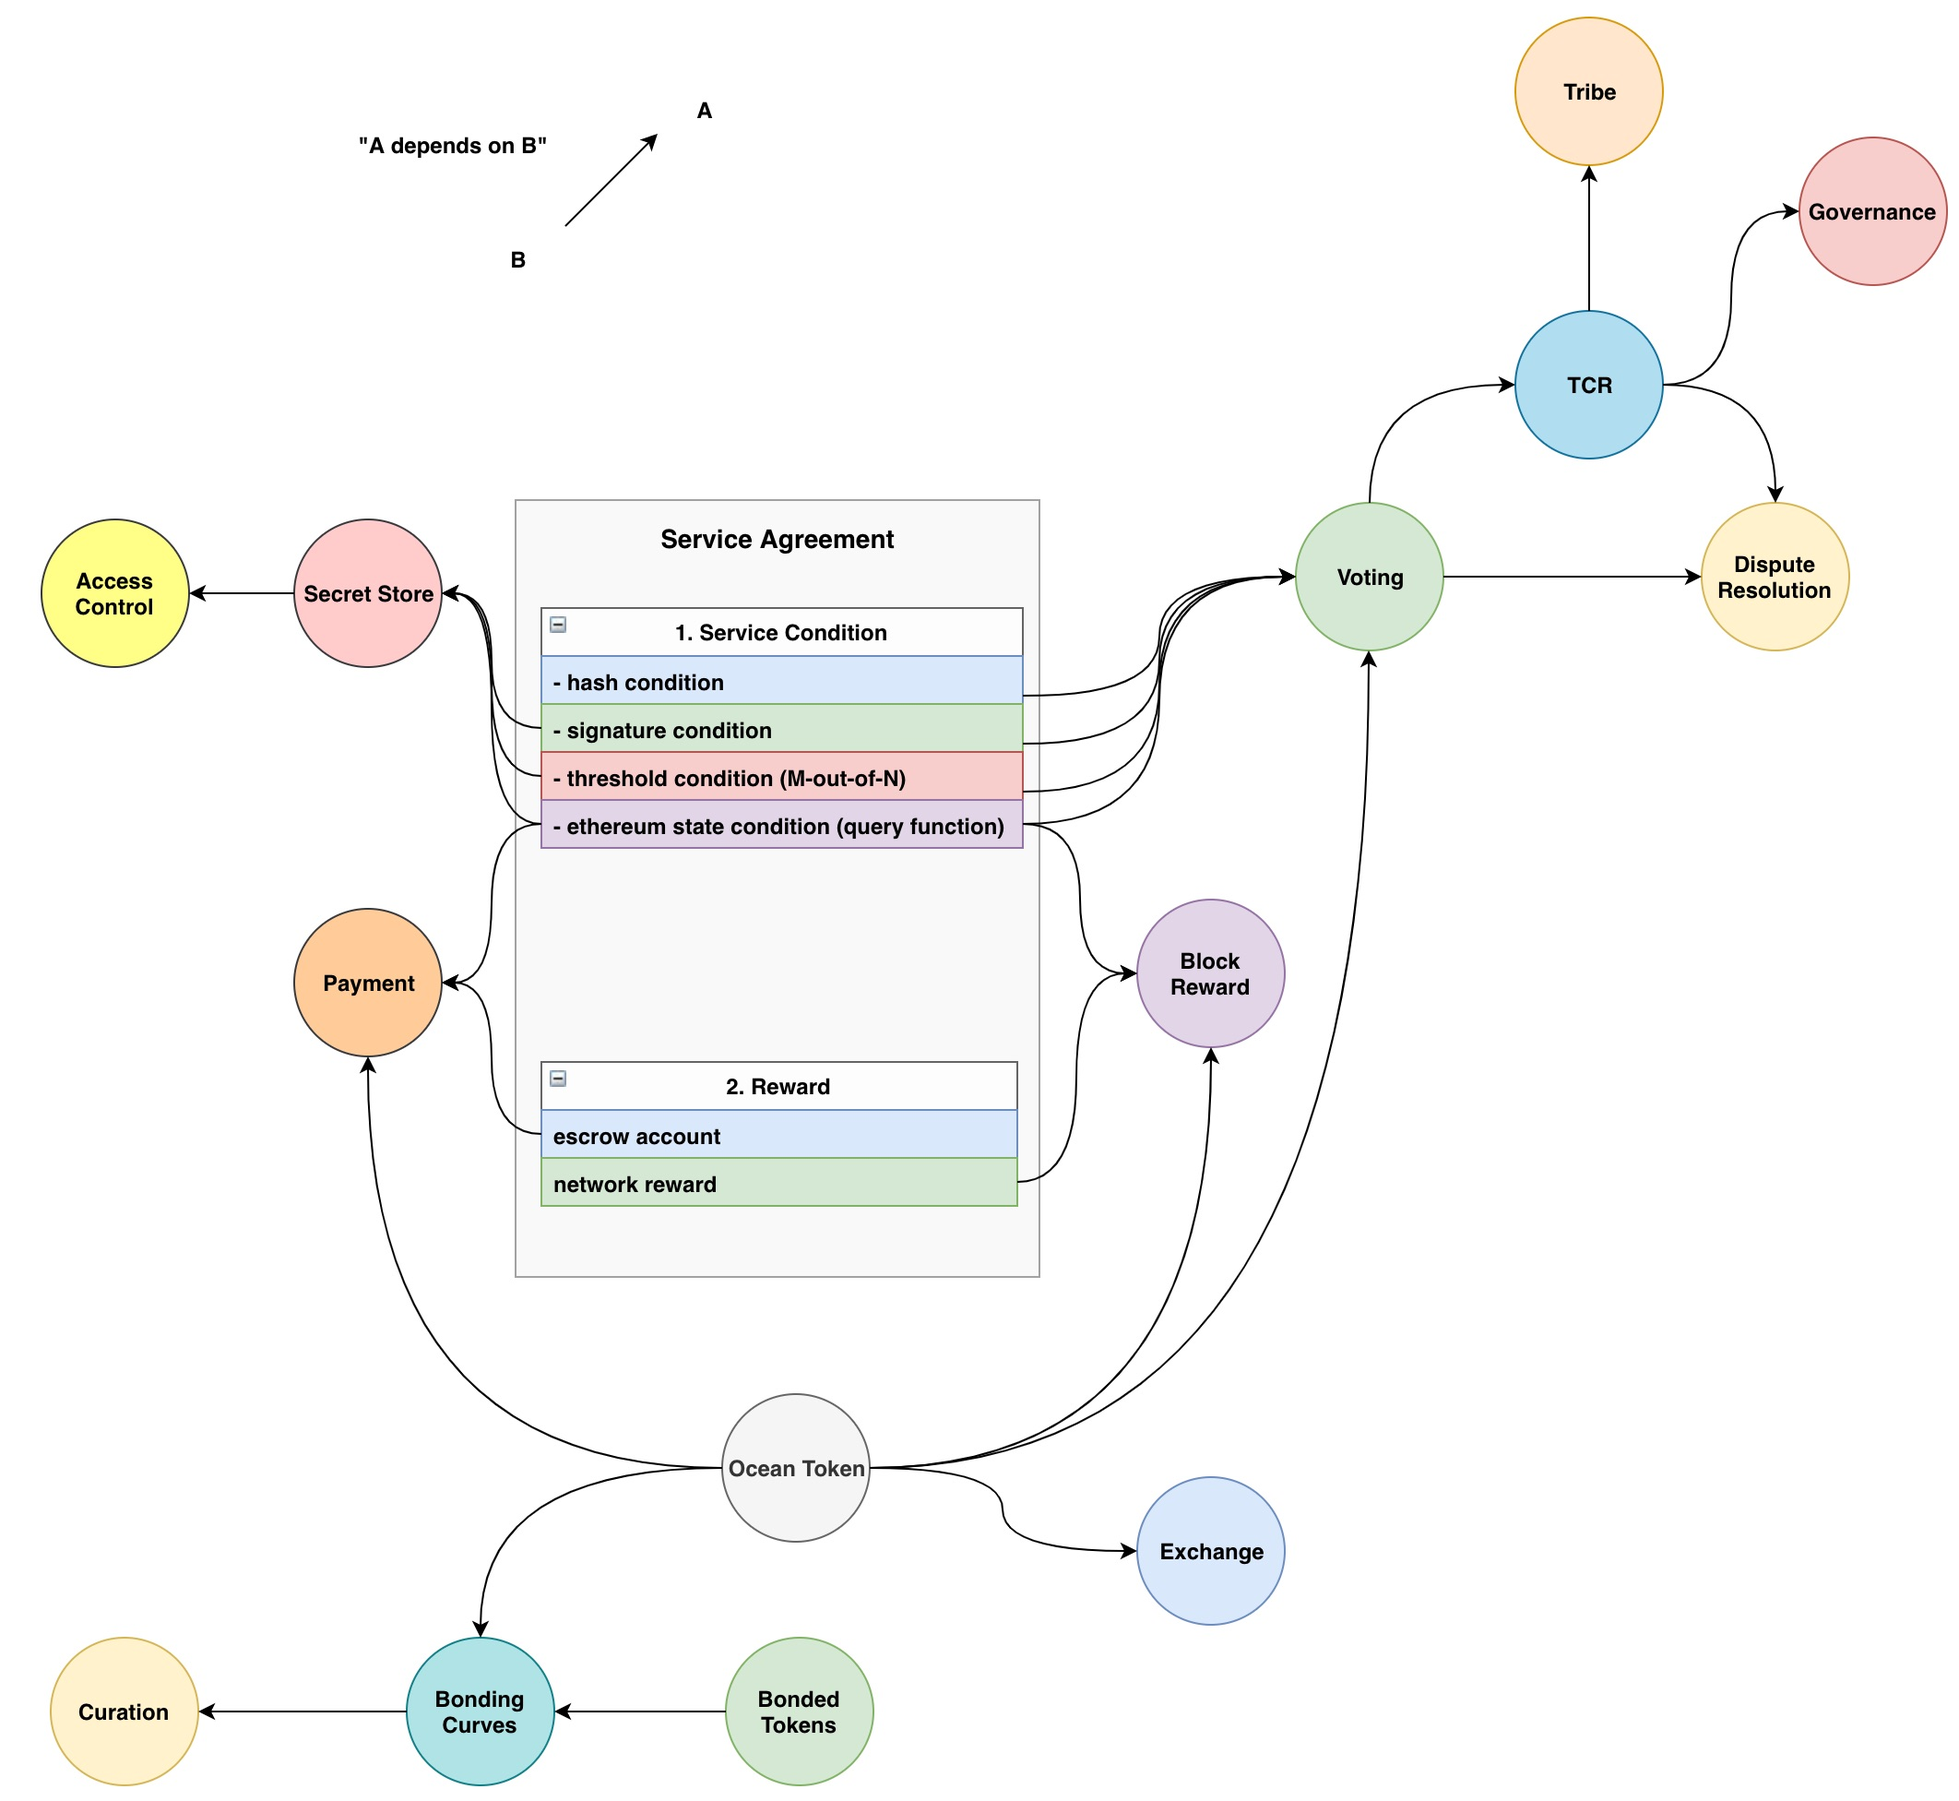
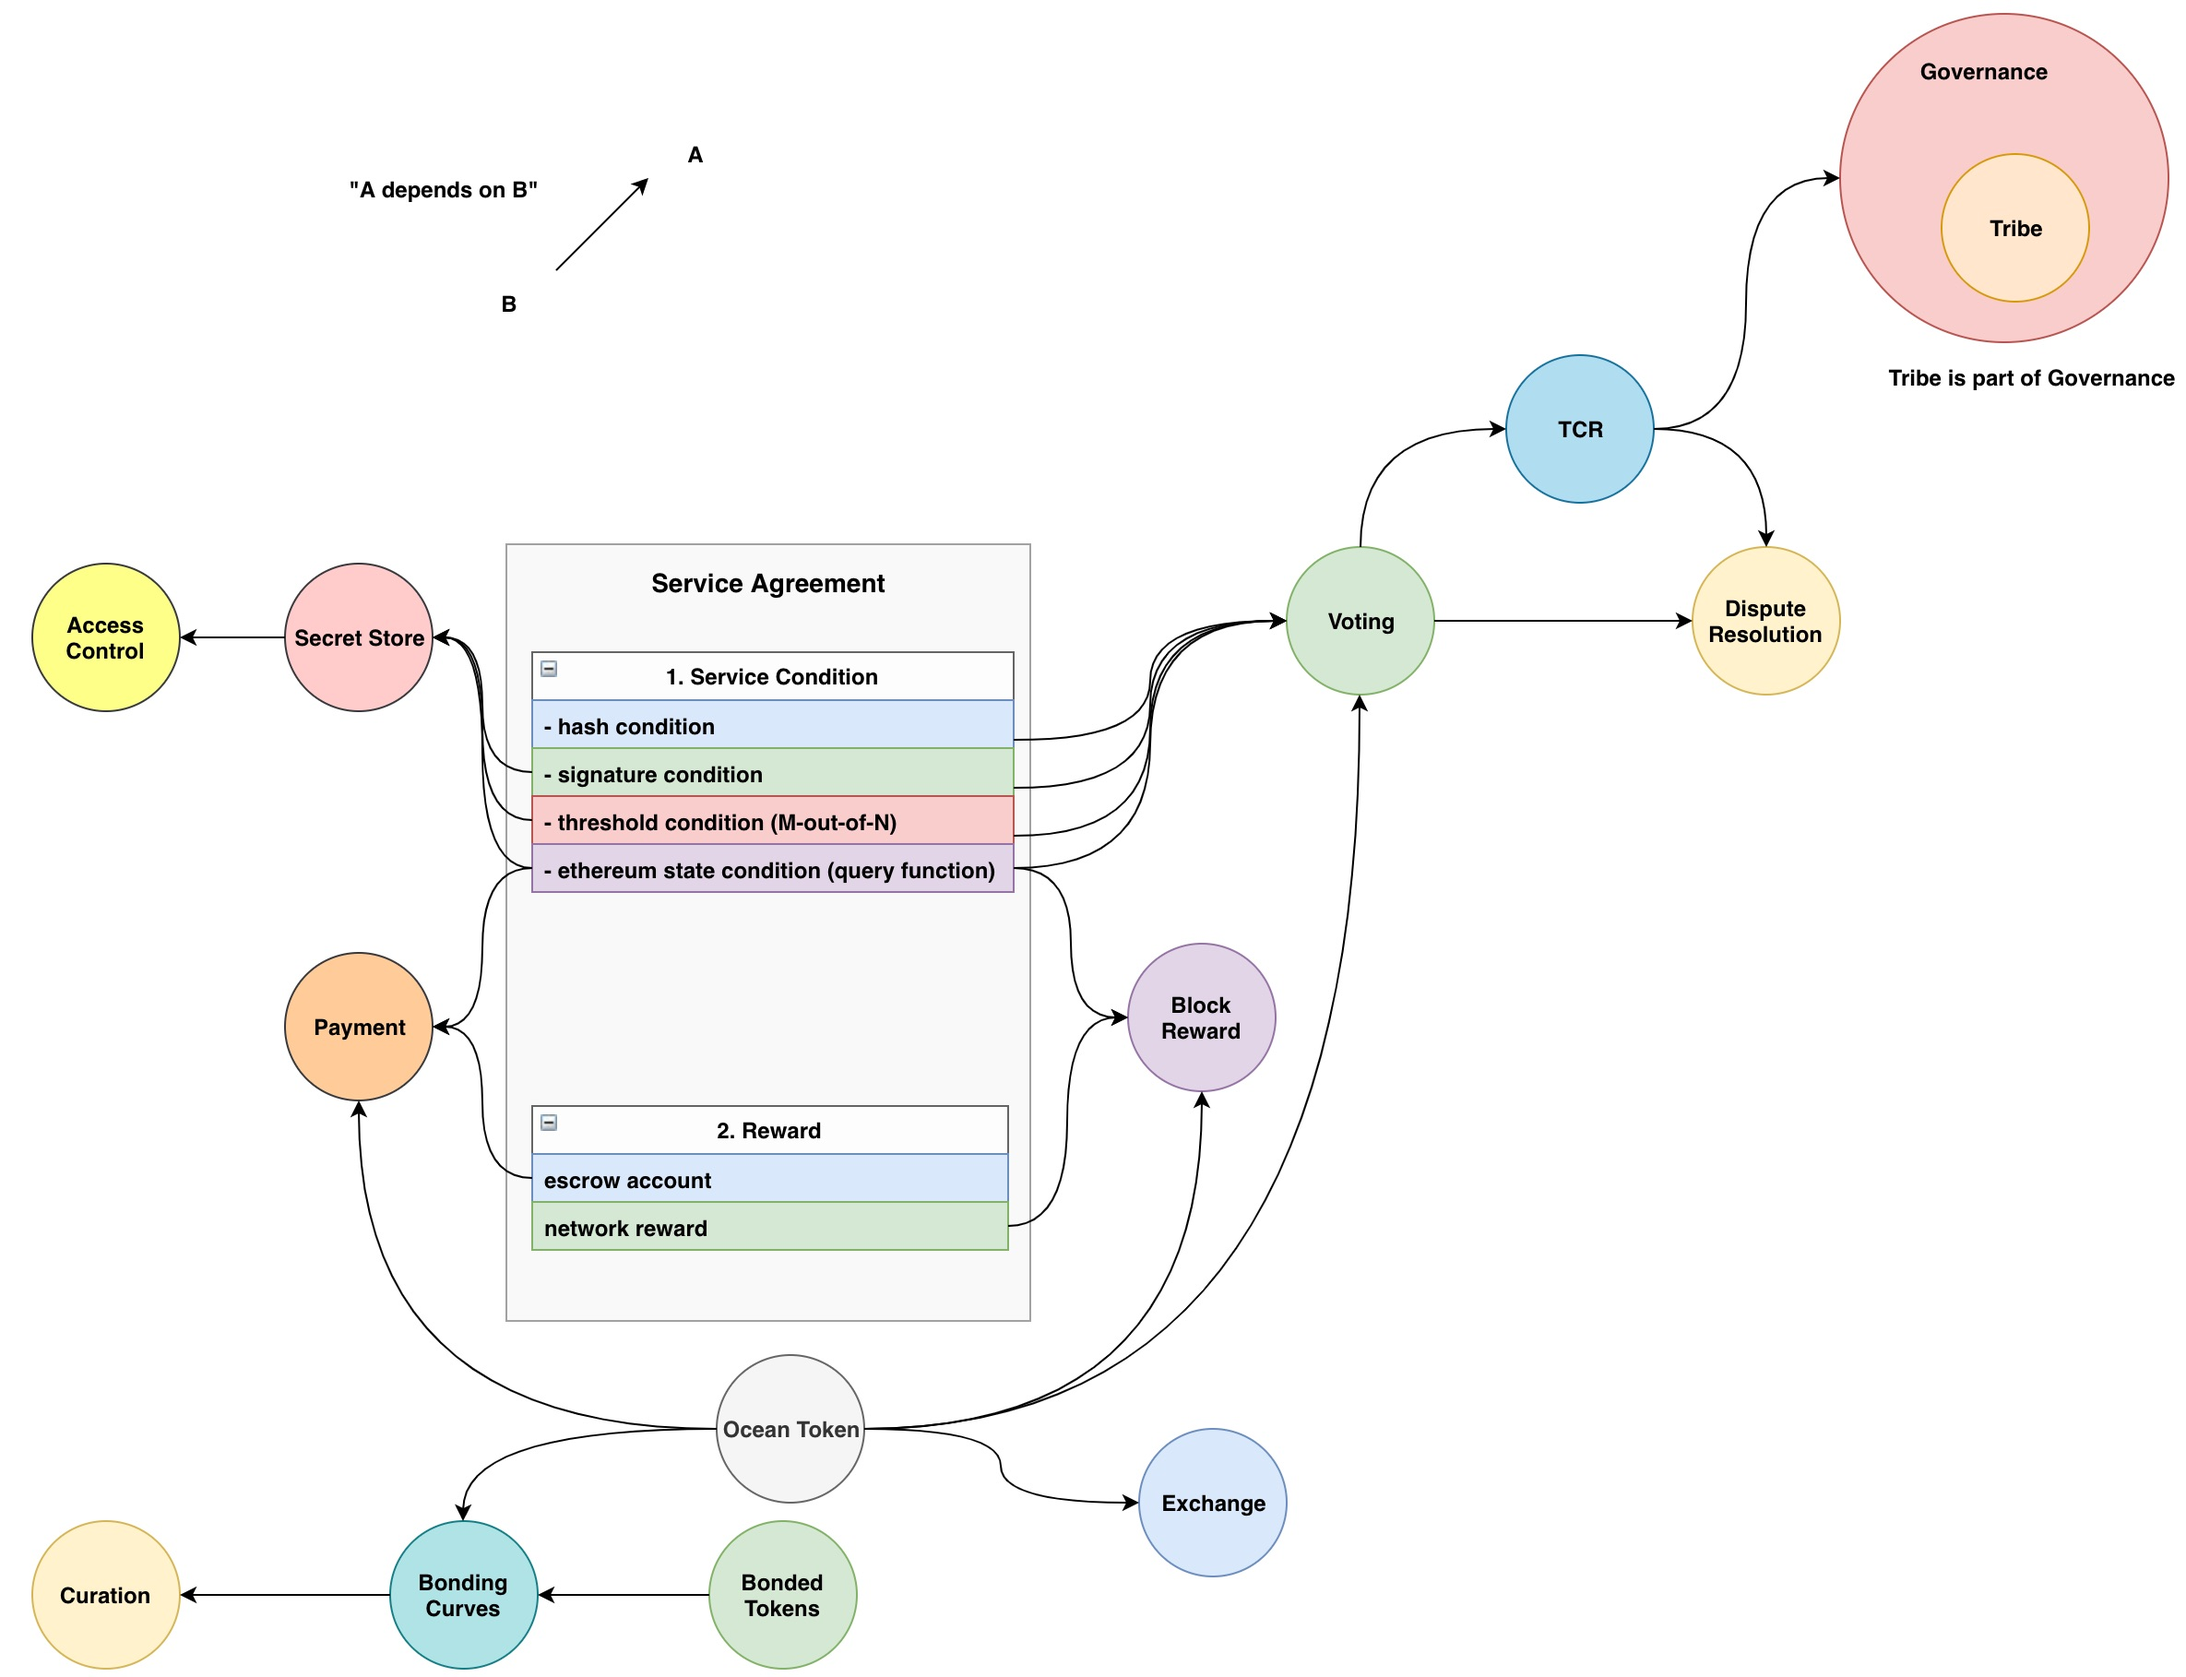
update document

diff --git a/doc/refactoring_design.md b/doc/refactoring_design.md
@@ -14,13 +14,13 @@ From the top-level point of view, there are total 9 moduels as shown in the belo
 
 * **Ocean Token**: the native ERC20 token in Ocean network
 * **Exchange**: Uniswap-like exchange built inside Ocean, where user can exchange between Ether and Ocean tokens.
-* **Service Agreement**: every service is modeled as a *service agreement*. Please see [SLA.md](https://github.com/oceanprotocol/dev-ocean/blob/feature/SLA-specs/doc/sla.md) and [smart contract prototype](https://github.com/oceanprotocol/keeper-contracts/blob/develop/contracts/SLA/ServiceAgreement.sol) for details.
-* **Tribe**: it controls the registry of membership for each service agreement template; defines TCR based registries for permission, which has whitelisted members who can provide or consume the service.
+* **Service Agreement**: A service agreement is defined by a set of service conditions describing the service agreement template. Please see [SLA.md](https://github.com/oceanprotocol/dev-ocean/blob/feature/SLA-specs/doc/sla.md) and [Service Agreement implementation in Trilobite](https://github.com/oceanprotocol/keeper-contracts/blob/develop/contracts/SLA/ServiceAgreement.sol) for details.
 * **Curation**: users can curate a registry of high-quality service agreement templates through staking on corresponding bonding curves. It helps consumers discover high-quality assets/services. 
 * **Governance**: it governs the available assets and services in Ocean network. For example, it whitelists new service agreement templates through TCR & Voting. 
+* **Tribe**: it controls the registry of membership for each service agreement template; defines TCR based registries for permission, which has whitelisted members who can provide or consume the service. Tribe is part of Governance module.
 * **Dispute Resolution**: resolves the disputes between consumer and provider through voting or TCR. 
 * **Block Reward**: Ocean network will periodically release block reward (i.e., new minted ERC20 Ocean tokens) to reward the providers of data commons. Note provider of data commons must be randomly selected to fulfill the service requests so that they have the equal probability to receive block rewards.
-* **Access Control**: it is the controller contract which grant access to consumers after depended conditions are fulfilled. The access token can be delivered in two approaches: secret store and OEP10. 
+* **Access Control**: it is the controller contract which grant access to actors after depended conditions are fulfilled. The access token can be delivered in two approaches: secret store and OEP10. 
 * **Payment**: it handles all payment processing, including lock payment, release payment and refund payment. 
 
 
@@ -619,17 +619,180 @@ It illustrates the interaction between contracts.
 <img src="img/refactoring/refactoring.jpg" width="1000" />
 
 
+## 4. Priority List
+
+### 4.1 Sorted by Criticality (High to Low)
+
+* Service Agreement
+* Access Control
+* Payment
+* TCR
+* Curation
+* Tribe
+* Block Reward
+* Dispute Resolution
+* Voting
+* Ocean Token 
+
+### 4.2 Sorted by Implementation Difficulty (Low to High)
+
+* Ocean Token
+* Voting
+* Payment
+* TCR
+* Dispute Resolution
+* Access Control
+* Block Reward
+* Tribe
+* Curation
+* Service Agreement
+
+
+## 5. Functionality Categories
+
+The categories come from Dimi's email thread. 
+
+**bold**: already have in Trilobyte  
+regular: must to have for Tethys  
+*italic*: nice to have depending on research and PoC
 
 
 
+### 5.1 Service Agreements
+
+1. **ACCESS conditions as a fundamental service agreement**  
+	* **access POLICY delivery with on-chain encryption**  
+	* **access POLICY delivery with secret store**
+	* **open policy AUTHORIZATION at PROVIDER side (enables: public Azure, S3, ...)**  
+	* contextual policy AUTHORIZATION at PROVIDER side (enables: private/permissioned cloud & on-prem)  
+	* *market-makers for ERC20 service tokens (enables: decentralized services on ETH like truebit, enigma)*
+
+2. **PAYMENT conditions**  
+	* **COMMONS: PAYMENT == free**  
+	* **FIX price in OCEAN token**  
+	* MARKET price in OCEAN token (enables: market with simple order book)  
+	* DROP token (enables: signalling and governance)  
+	* *Consumer ASK instead of Provider BID (enables: simple bounty and competition)*
+
+3. **STATE conditions (verification, ...)**  
+	* **resolve ETH proof validations (enables: fitchain**, *truebit, enigma*)  
+	* *resolve non-ETH proof validations (enables: polkadot)  
+	* oraclize web2.0 log validations (enables: verified cloud services)*
+
+
+4. DISPUTE RESOLUTION conditions  
+	* voting based resolution (enables: human verification)  
+	* *TCR based resolution (enables: community opinion)* 
+
+5. **TEMPLATE contract for service agreement**  
+	* **simple list of conditions with AND logic**  
+	* **linear dependency graph (enables: simple service flows)**
+	* **simple escrow payment with EXECUTE and ABORT (enables: secure payment)**
+	* combinatorial logic with conditions (enables: complex service flows)
+	* *advanced payment logic with chunked or continuous outputs (enables: stream services)*
+
+6. **NETWORK**
+	* **Ethereum network management like ganache, ropsten, kubernetes, ...**
+	* Verifier network management (enables: fitchain)
 
 
 
+### 5.2 Discovery
+
+1. **IDENTITY format and service**  
+	* **simple DID/DDO for users, assets** and tribes  
+	* *integrity check DID/DDO for users, assets and tribes (enables: secure content-addressed discovery)*  
+	* simple resolver for MongoDB- and BigchainDB-based identity providers
+	* *universal resolver for multiple identity hubs (enables: user account interoperabilty)*
+
+	
+2. **METADATA format and service**
+	* **DID template for Metadata wrapper**
+	* **simple CRUD & query for MongoDB- and BigchainDB-based backends (enables: basic discovery service)**
+	* *provenance query combining metadata and service (agreement) transactions (enables: provenance analysis)*
+	* *multi-query for multiple metadata providers (enables: cross-tribe asset discovery)*
+	* *simple service agreement for metadata providers (enables: metadata as a service)*
 
 
+3. **NETWORK**  
+	* **Centralized discovery service like MongoDB and Swagger**  
+	* *Decentralized discovery service like BigchainDB*  
+	* *Multiple discovery providers (enables: permissioned discovery for tribes)*  
+	
+	
+4. *SIGNALLING*
+	* *TCR-based quality list for assets (enables: basic curation)*
+
+### 5.3 Governance
+
+1. *ASSET governance*
+	* *providers stake on their assets (enables: Sybil resistance on assets)*
+
+2. *TRIBE governance*
+	* *open registry (enables: tribes)*
+	* *TCR based registry (enables: MOBI)*
+	* *tribe-imposed service conditions (enables: MOBI, HEALTH, commons)*
+	* *Aragon-based governance (enables: DAOs)*
 
 
+### 5.4 Incentives
+
+1. Virtual Block Reward  
+	* simple treasure chest for holding the mineable tokens  
+	* periodical release of rewards (enables: simple reward)  
+	* *conversion of service condition to reward (enables: selected reward)*  
+	* *governance of rewards (enables: dynamic rewards)*  
+	
+2.  *Mechanism Designs:*
+	* assets with fixed bonding curve (enables: complex curation)
 
 
+## 6. Open Questions
+
+### 6.1 Tradeoff considering Gas Consumption 
+
+In many places, we need to make a choice during implementation considering the huge amount of gas consumption in the straightforward way:
+
+* each registry has its own TCR contract instance **OR** all registries share the same TCR contract instance;
+* each SA template has its own bonding curve contract instance **OR** all SA templates share the same bonding curve contract instance (each SA template only maintains its own state of bonding curve);
+* each curation has its own bonded token contract instance **OR** each curation only maintains a *balance sheet* of bonded token for token holders.
+* more ...
+
+
+Let us take a look at the bonded token contract case:
+
+* **The most straightforward implementation**: 
+	* each SA template has its own local bonded tokens;
+	* users can stake on the SA template by buying the bonded tokens with Ocean tokens;
+	* **PRO**: user own the ERC20 tokens and transfer tokens as they wish;
+	* **CON**: it costs large amount of gas to deploy bonded token contracts.
+
+<img src="img/refactoring/straightforward.jpg" width="600" />
+
+* **The other gas-efficient implementation is**:
+	* each SA template has its own 'virtual' bonded tokens;
+	* these tokens only exist on the balance sheet for token holders;
+	* curation contract will maintain the balance sheet for `virtual` bonded tokens.
+	* **PRO**: gas consumption to change numbers in the balance sheet is negligible;
+	* **CON**: users cannot transfer those tokens to their own wallets.
+	
+
+<img src="img/refactoring/gasefficient.jpg" width="1000" />
+
+### 6.2 Random Number Generator
+
+The random number generation is very important in Ocean, which is required in many places such as selecting winner of block rewards and etc.
+
+The most famous one is RANDAO as shown in the diagram below. It needs three stages and two interactions with users to generate a truly random number. 
+
+Similar to PLCRVoting approach, RANDAO suffers from the `withdrawal` attack when any user participates in Commit Stage but not Reveal Stage. 
+
+<img src="img/refactoring/randao.jpg" width="600" />
+
+Another more straightforward way is **Oraclize**, which imports external random source (i.e., random.org) into the smart contract. 
+
+In addition, decentralized Oraclize like **chainlink** can be explored. 
+
+We need to carefully choose the approach to generate random number, because many projects had been hacked due to their designs of RNG and lose many tokens.
 
 
